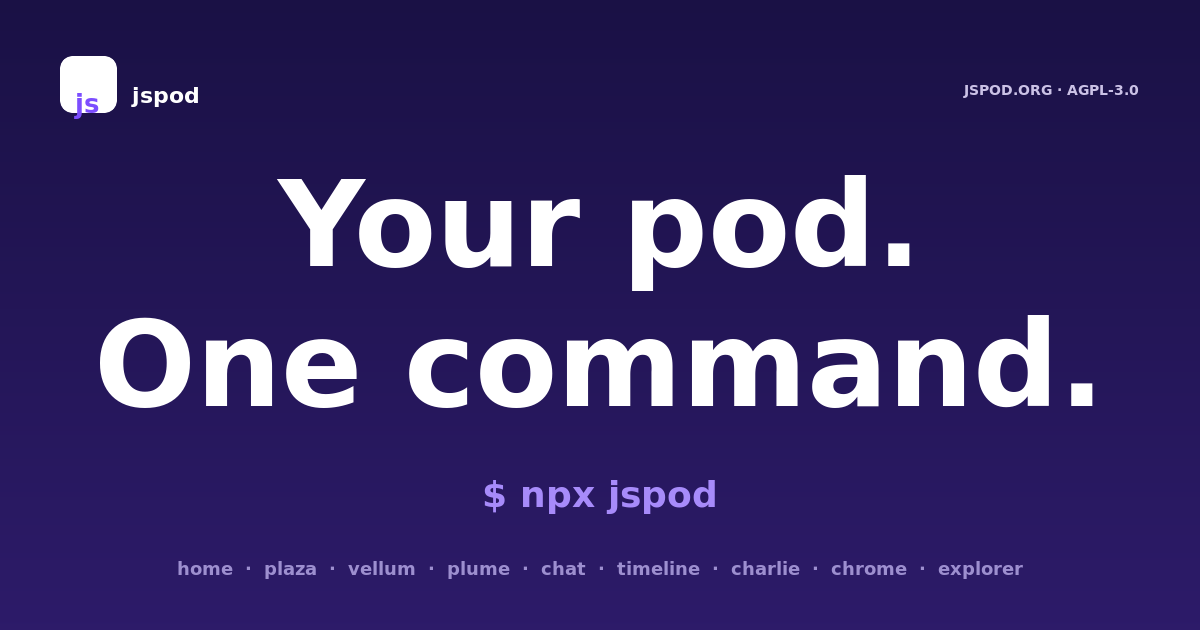
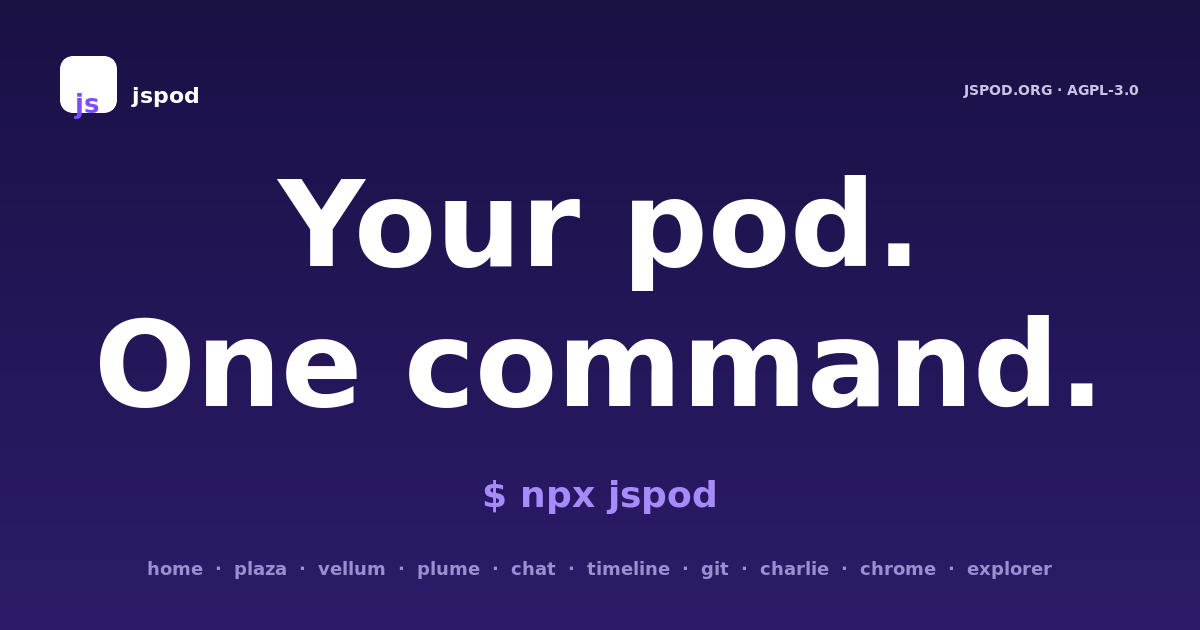
feat: add git tile to apps + regenerate og.png

Changed region(s): [[0.1233, 0.8746, 0.8633, 0.9349]]

diff --git a/index.html b/index.html
@@ -140,6 +140,10 @@
         <h3>explorer</h3>
         <p>File browser with per-row ACL chips. See what's on the pod.</p>
       </li>
+      <li>
+        <h3>git</h3>
+        <p>GitHub-style git browser for any repo on your pod — commits, files, diffs, in the browser.</p>
+      </li>
     </ul>
   </section>
 
